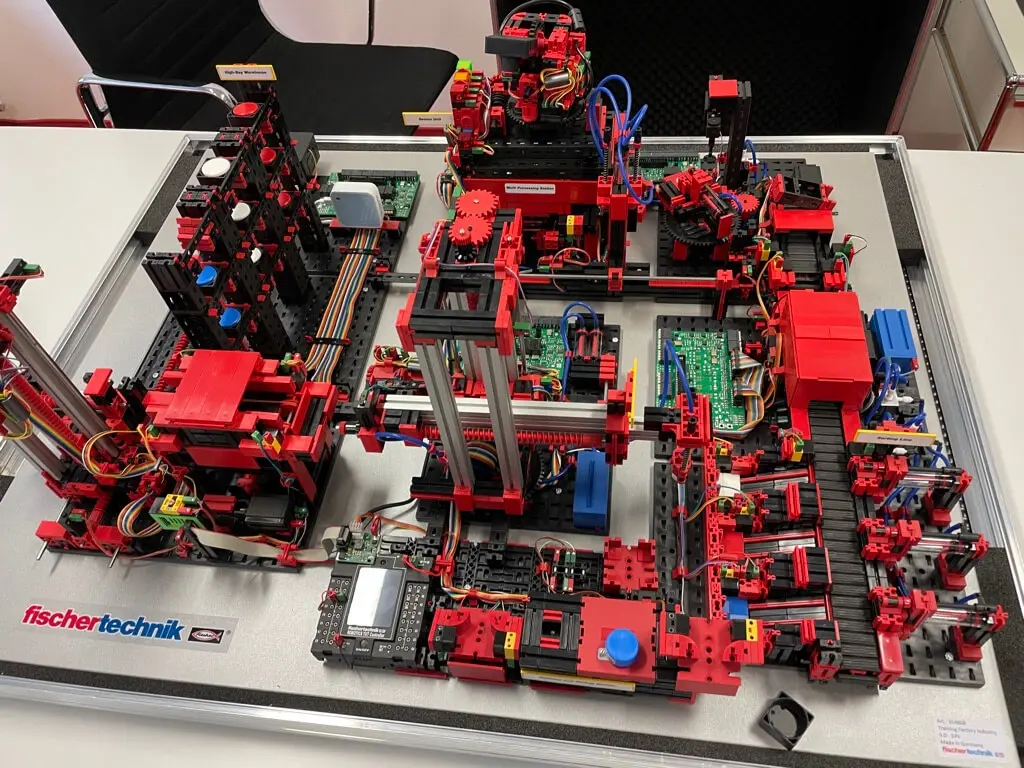
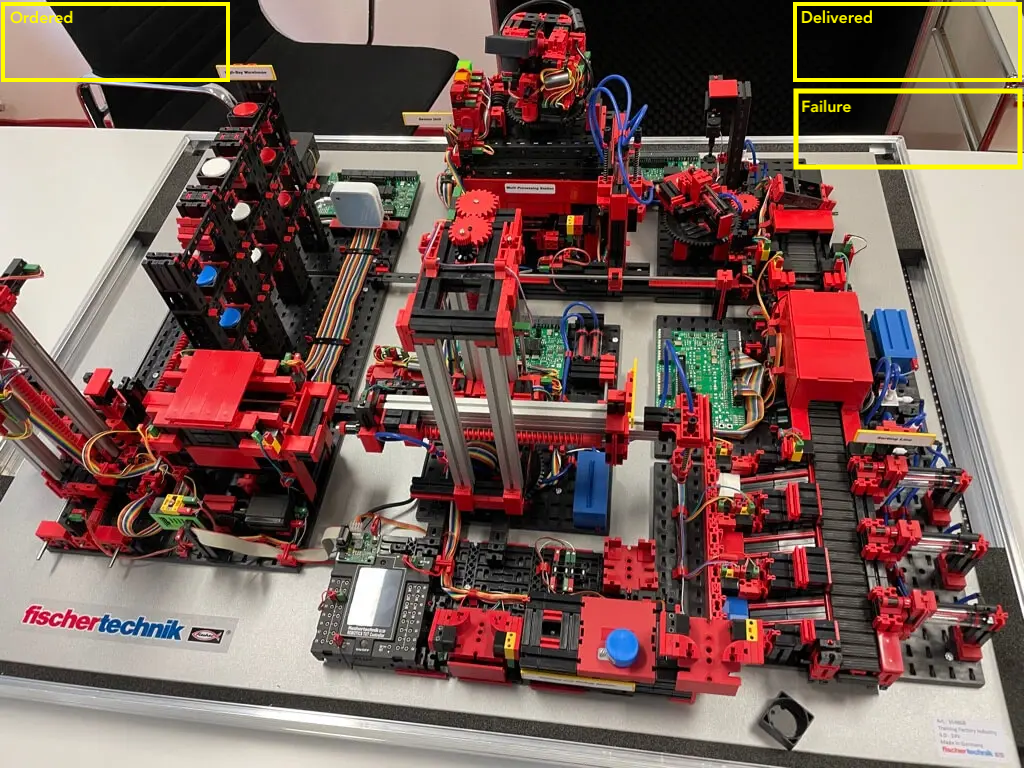
ft/improved UI; added failure progress status

Changed region(s): [[0.75, 0.0, 1.0, 0.2188], [0.0, 0.0, 0.25, 0.125]]

diff --git a/order/src/main/resources/static/order.html b/order/src/main/resources/static/order.html
@@ -152,11 +152,12 @@
         let evtSource = new EventSource("/api/updates");
         evtSource.onmessage = function(event) {
             let positionDictionary = {
-                "ordered": {x: 10, y: 10},
+                "ordered": {x: 20, y: 50},
                 "warehouse": {x: 200, y: 300},
                 "grabber": {x: 460, y: 400},
                 "delivery": {x: 500, y: 590},
-                "delivered": {x: 50, y: 50}
+                "delivered": {x: 760, y: 50},
+                "failure": {x: 760, y: 125},
             };
 
             ctx.clearRect(0, 0, canvas.width, canvas.height);

diff --git a/order/src/main/java/ch/unisg/order/services/ProcessStarterService.java b/order/src/main/java/ch/unisg/order/services/ProcessStarterService.java
@@ -114,4 +114,19 @@ public class ProcessStarterService {
 
         monitorDataProducer.sendMonitorUpdate(order.getOrderId(), "setProgressDelivered", success.name());
     }
+
+    /**
+     * This method sends a message to the Zeebe broker to set the progress of an order to "failure".
+     *
+     * @param order The order.
+     *
+     */
+    @JobWorker(type = "setProgressFailure", name = "setProgressFailureProcessor")
+    public void setProgressFailure(@Variable Order order) {
+        Objects.requireNonNull(OrderRegistry.getOrderById(order.getOrderId())).setProgress("failure");
+
+        monitorDataProducer.sendMonitorUpdate(order.getOrderId(), "setProgressFailure", success.name());
+    }
+
+
 }

diff --git a/order/src/main/java/ch/unisg/order/rest/ShopRestController.java b/order/src/main/java/ch/unisg/order/rest/ShopRestController.java
@@ -73,7 +73,7 @@ public class ShopRestController {
      */
     @GetMapping("/api/updates")
     public SseEmitter sendUpdates() {
-        SseEmitter emitter = new SseEmitter();
+        SseEmitter emitter = new SseEmitter(100L);
 
         ObjectMapper mapper = new ObjectMapper();
         ArrayNode jsonArray = mapper.createArrayNode();
@@ -100,7 +100,7 @@ public class ShopRestController {
     @ResponseBody
     @GetMapping("/api/currentStock")
     public SseEmitter sendCurrentStock() {
-        SseEmitter emitter = new SseEmitter();
+        SseEmitter emitter = new SseEmitter(100L);
         ObjectMapper mapper = new ObjectMapper();
 
         ObjectNode jsonObject1 = mapper.createObjectNode();
